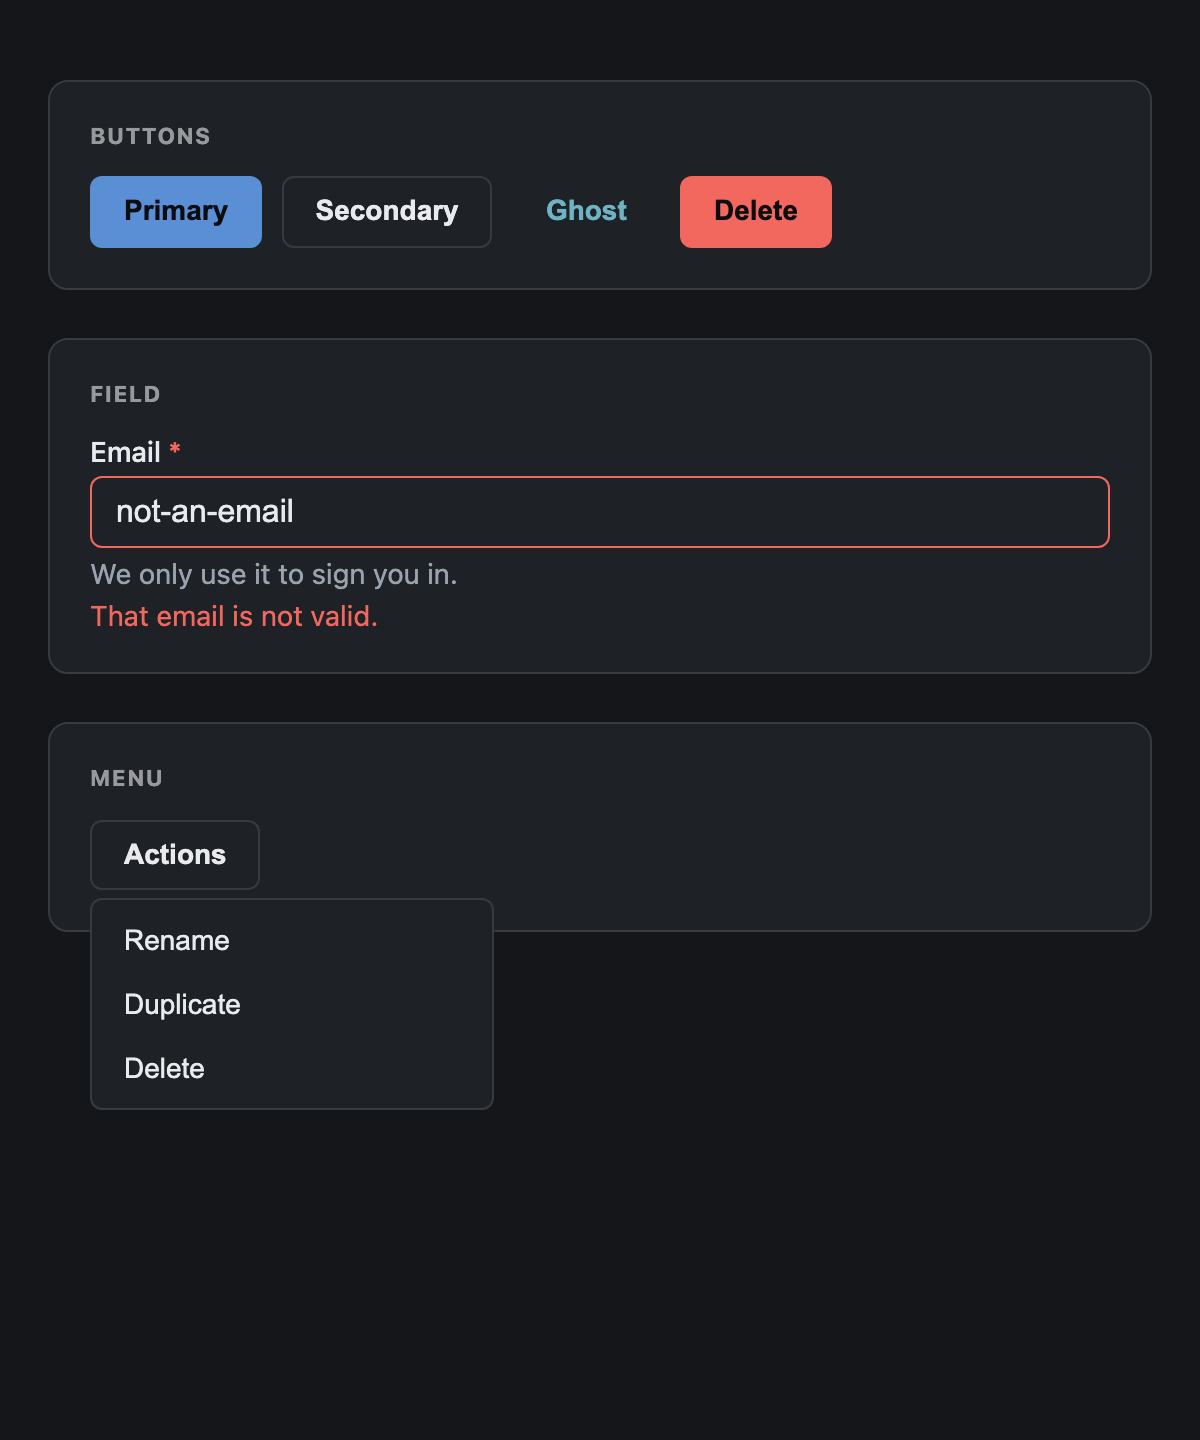
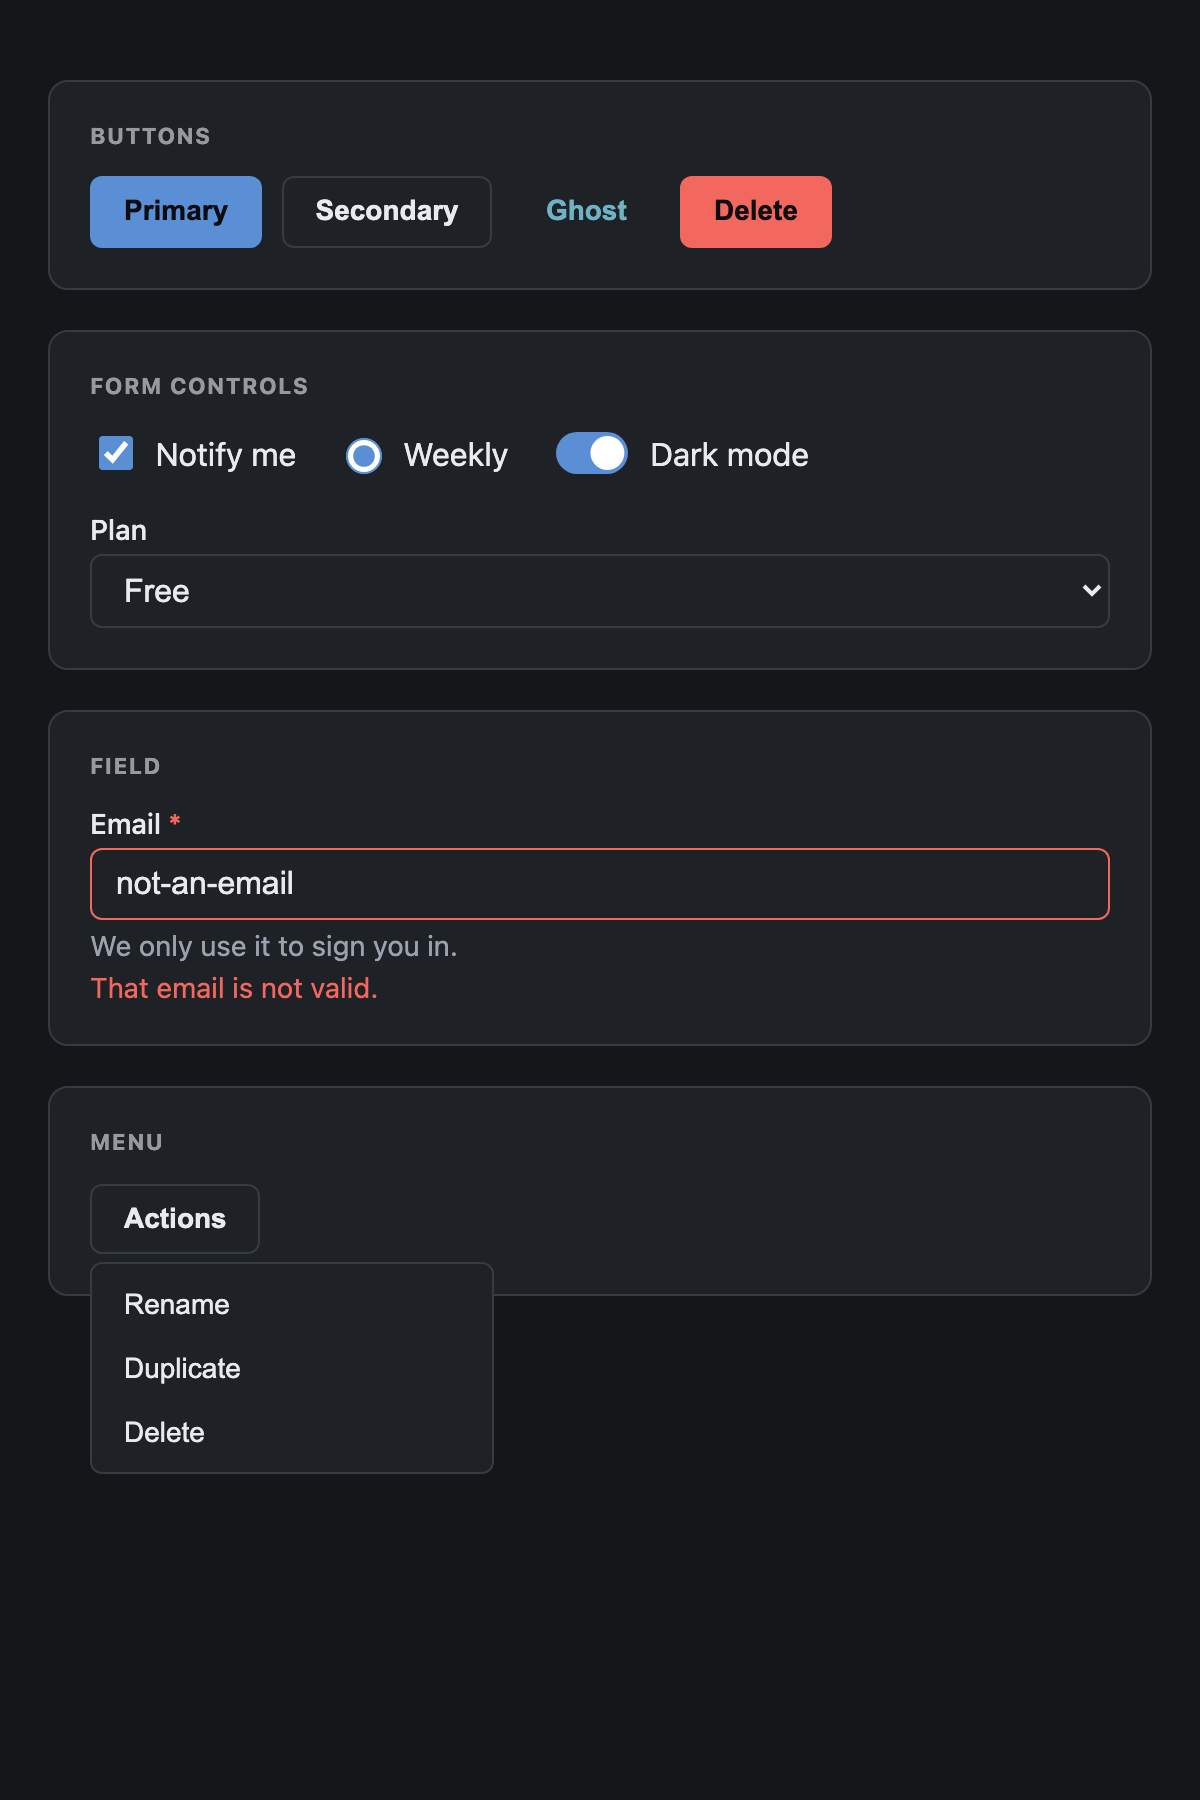
GRASP Tier 2a: form controls (Checkbox, Radio, Switch, Select)
Native inputs, themed with a visible focus ring, so keyboard and screen-reader
behavior comes from the platform. The switch is a checkbox with role=switch
whose motion respects prefers-reduced-motion. React wrappers added; all compose
with grasp-field. Render updated to show them.

diff --git a/grasp.css b/grasp.css
@@ -66,6 +66,76 @@
 }
 .grasp-field [aria-invalid="true"] { border-color: var(--color-danger, #b3261e); }
 
+/* Form controls. Native inputs, themed and given a visible focus ring; native
+   keeps the keyboard and screen-reader behavior for free. */
+.grasp-checkbox,
+.grasp-radio {
+  width: 1.1rem;
+  height: 1.1rem;
+  accent-color: var(--color-accent-solid, #1e4e8c);
+  cursor: pointer;
+}
+.grasp-checkbox:focus-visible,
+.grasp-radio:focus-visible,
+.grasp-switch:focus-visible,
+.grasp-select:focus-visible {
+  outline: var(--ring-width, 3px) solid var(--color-focus-ring, #1e4e8c);
+  outline-offset: 2px;
+}
+/* A control paired with its label on one row. */
+.grasp-choice {
+  display: inline-flex;
+  align-items: center;
+  gap: var(--space-2, 0.5rem);
+  font-size: var(--text-base, 1rem);
+  color: var(--color-text-primary, #1b1e22);
+  cursor: pointer;
+}
+
+/* Switch: a checkbox presented as a toggle. Put role="switch" on the input. */
+.grasp-switch {
+  appearance: none;
+  -webkit-appearance: none;
+  flex: none;
+  width: 2.25rem;
+  height: 1.3rem;
+  border-radius: 999px;
+  background: var(--color-border, #d4dae2);
+  position: relative;
+  cursor: pointer;
+  transition: background 0.15s;
+}
+.grasp-switch:checked { background: var(--color-accent-solid, #1e4e8c); }
+.grasp-switch::after {
+  content: "";
+  position: absolute;
+  top: 2px;
+  left: 2px;
+  width: calc(1.3rem - 4px);
+  height: calc(1.3rem - 4px);
+  border-radius: 999px;
+  background: #ffffff;
+  transition: transform 0.15s;
+}
+.grasp-switch:checked::after { transform: translateX(0.95rem); }
+@media (prefers-reduced-motion: reduce) {
+  .grasp-switch,
+  .grasp-switch::after { transition: none; }
+}
+
+/* Select: the native select, themed. */
+.grasp-select {
+  width: 100%;
+  box-sizing: border-box;
+  padding: var(--space-2, 0.5rem) var(--space-3, 0.75rem);
+  border: 1px solid var(--color-border, #d4dae2);
+  border-radius: var(--radius-sm, 6px);
+  background: var(--color-bg-subtle, #ffffff);
+  color: var(--color-text-primary, #1b1e22);
+  font-size: var(--text-base, 1rem);
+  cursor: pointer;
+}
+
 /* Modal. Built on the native <dialog> element, which gives focus trap, Escape,
    and focus return for free (native-first). The custom element is an invisible
    wrapper around the dialog. */

diff --git a/react/index.d.ts b/react/index.d.ts
@@ -1,10 +1,22 @@
-import type { ReactNode, ReactElement, ButtonHTMLAttributes } from 'react'
+import type { ReactNode, ReactElement, ButtonHTMLAttributes, InputHTMLAttributes, SelectHTMLAttributes } from 'react'
 
 export interface ButtonProps extends ButtonHTMLAttributes<HTMLButtonElement> {
   variant?: 'primary' | 'secondary' | 'ghost' | 'danger'
   className?: string
 }
 export function Button(props: ButtonProps): JSX.Element
+
+export interface CheckboxProps extends InputHTMLAttributes<HTMLInputElement> {
+  className?: string
+}
+export function Checkbox(props: CheckboxProps): JSX.Element
+export function Radio(props: CheckboxProps): JSX.Element
+export function Switch(props: CheckboxProps): JSX.Element
+
+export interface SelectProps extends SelectHTMLAttributes<HTMLSelectElement> {
+  className?: string
+}
+export function Select(props: SelectProps): JSX.Element
 
 export interface FieldProps {
   label?: string

diff --git a/react/index.js b/react/index.js
@@ -11,6 +11,22 @@ export function Button({ variant, className = '', ...rest }) {
   return h('button', { className: cls, ...rest })
 }
 
+export function Checkbox({ className = '', ...rest }) {
+  return h('input', { type: 'checkbox', className: ('grasp-checkbox ' + className).trim(), ...rest })
+}
+
+export function Radio({ className = '', ...rest }) {
+  return h('input', { type: 'radio', className: ('grasp-radio ' + className).trim(), ...rest })
+}
+
+export function Switch({ className = '', ...rest }) {
+  return h('input', { type: 'checkbox', role: 'switch', className: ('grasp-switch ' + className).trim(), ...rest })
+}
+
+export function Select({ className = '', children, ...rest }) {
+  return h('select', { className: ('grasp-select ' + className).trim(), ...rest }, children)
+}
+
 export function Field({ label, hint, error, children }) {
   const rid = useId()
   const control = Children.only(children)

diff --git a/demo.html b/demo.html
@@ -34,6 +34,18 @@
   </div>
 
   <div class="case">
+    <h2>Form controls</h2>
+    <div class="row" style="gap: 1.25rem;">
+      <label class="grasp-choice"><input type="checkbox" class="grasp-checkbox" checked /> Notify me</label>
+      <label class="grasp-choice"><input type="radio" name="plan" class="grasp-radio" checked /> Weekly</label>
+      <label class="grasp-choice"><input type="checkbox" role="switch" class="grasp-switch" checked /> Dark mode</label>
+    </div>
+    <div style="margin-top: 1rem;">
+      <grasp-field label="Plan"><select class="grasp-select"><option>Free</option><option>Pro</option></select></grasp-field>
+    </div>
+  </div>
+
+  <div class="case">
     <h2>Menu</h2>
     <grasp-menu>
       <button class="grasp-menu__trigger grasp-button grasp-button--secondary">Actions</button>

diff --git a/CHANGELOG.md b/CHANGELOG.md
@@ -6,6 +6,7 @@ All notable changes to GRASP are recorded here. This project has not yet cut a n
 
 ### Added
 
+- Tier 2a, the form controls: Checkbox, Radio, Switch, and Select. Native inputs, themed with a visible focus ring, so the keyboard and screen-reader behavior comes from the platform; the switch is a checkbox with `role="switch"` whose motion respects `prefers-reduced-motion`. React wrappers `Checkbox`, `Radio`, `Switch`, `Select`, and they compose with `<grasp-field>` for labels and errors.
 - Tranche one, the four most-broken controls: Button (a CSS layer on a real `<button>`), Field (`<grasp-field>`, which wires the label, hint, error, and aria to a native control), Modal (`<grasp-modal>`, built on the native `<dialog>` element for focus trap, Escape, and focus return), and Menu (`<grasp-menu>`, a keyboard-navigable menu).
 - The React binding (`grasp-ui/react`): `Button`, `Field`, `Modal`, `Menu`.
 - Native-first throughout: builds on `<button>`, native form controls, and `<dialog>`, and hand-rolls behavior only where no native element covers the pattern.

diff --git a/README.md b/README.md
@@ -21,6 +21,7 @@ GRASP builds on the semantic element wherever one exists and hand-rolls behavior
 - **Field**: `<grasp-field>` wires the label to the control, the error and hint via `aria-describedby`, marks `aria-invalid`, and shows a required indicator, all the wiring builders skip.
 - **Modal**: `<grasp-modal>` wraps a native `<dialog>`; opening moves focus in and traps it, Escape and a backdrop click close, and focus returns to the trigger.
 - **Menu**: `<grasp-menu>` carries `aria-haspopup` and `aria-expanded`, opens on click or the arrow keys, navigates with Up, Down, Home, and End, and closes on Escape or an outside click, returning focus to the trigger.
+- **Form controls**: Checkbox, Radio, Switch, and Select, native inputs styled and themed with a visible focus ring, so the keyboard and screen-reader behavior comes from the platform. The switch is a checkbox with `role="switch"`, and its motion respects `prefers-reduced-motion`. Wrap any of them in `<grasp-field>` for the label and error wiring.
 
 ## Quickstart
 
